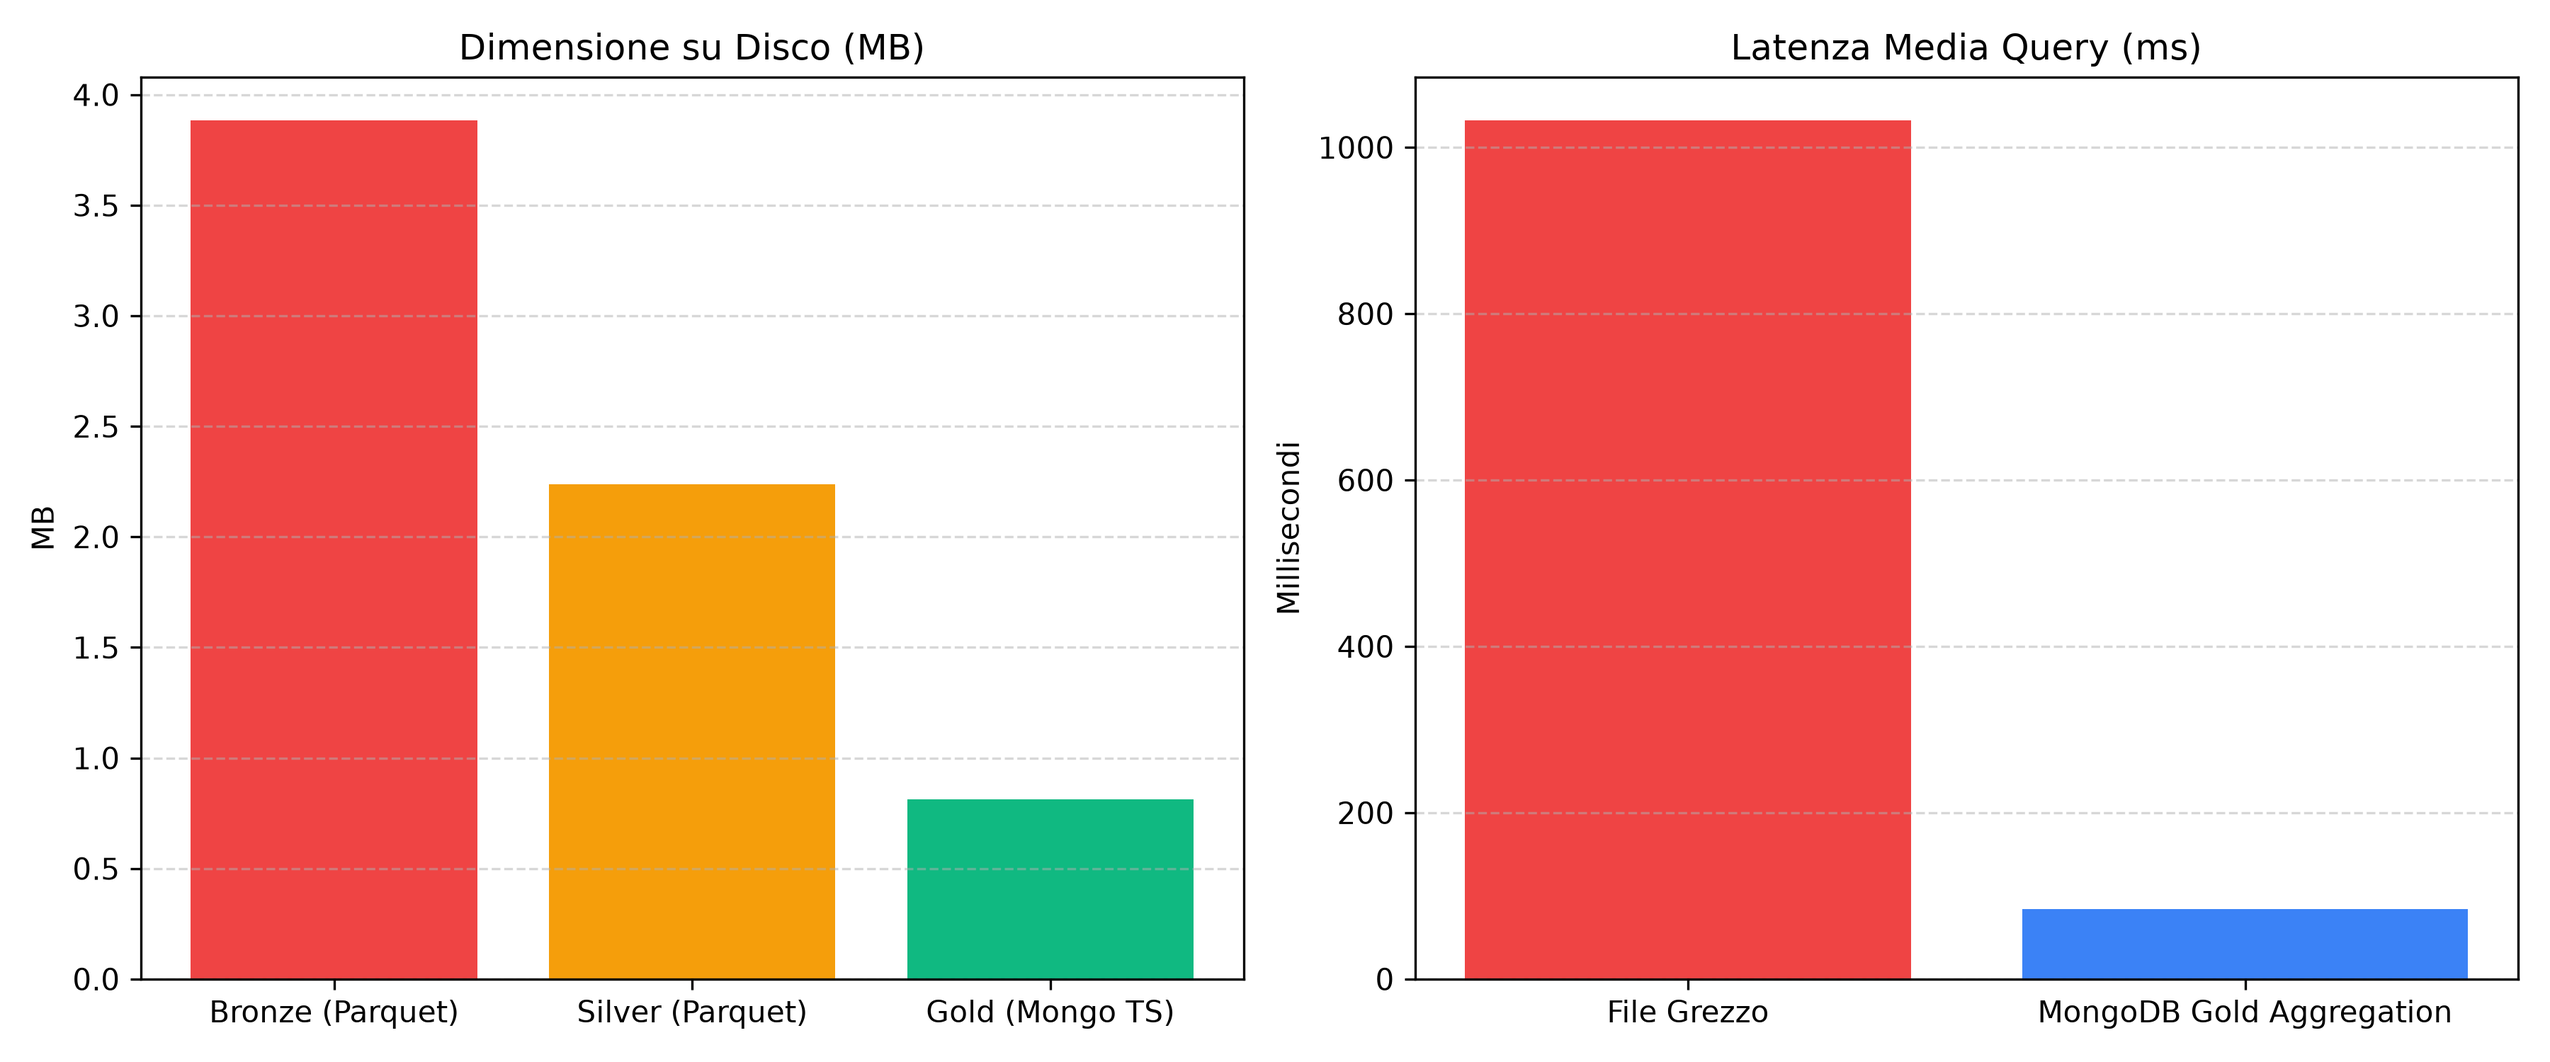
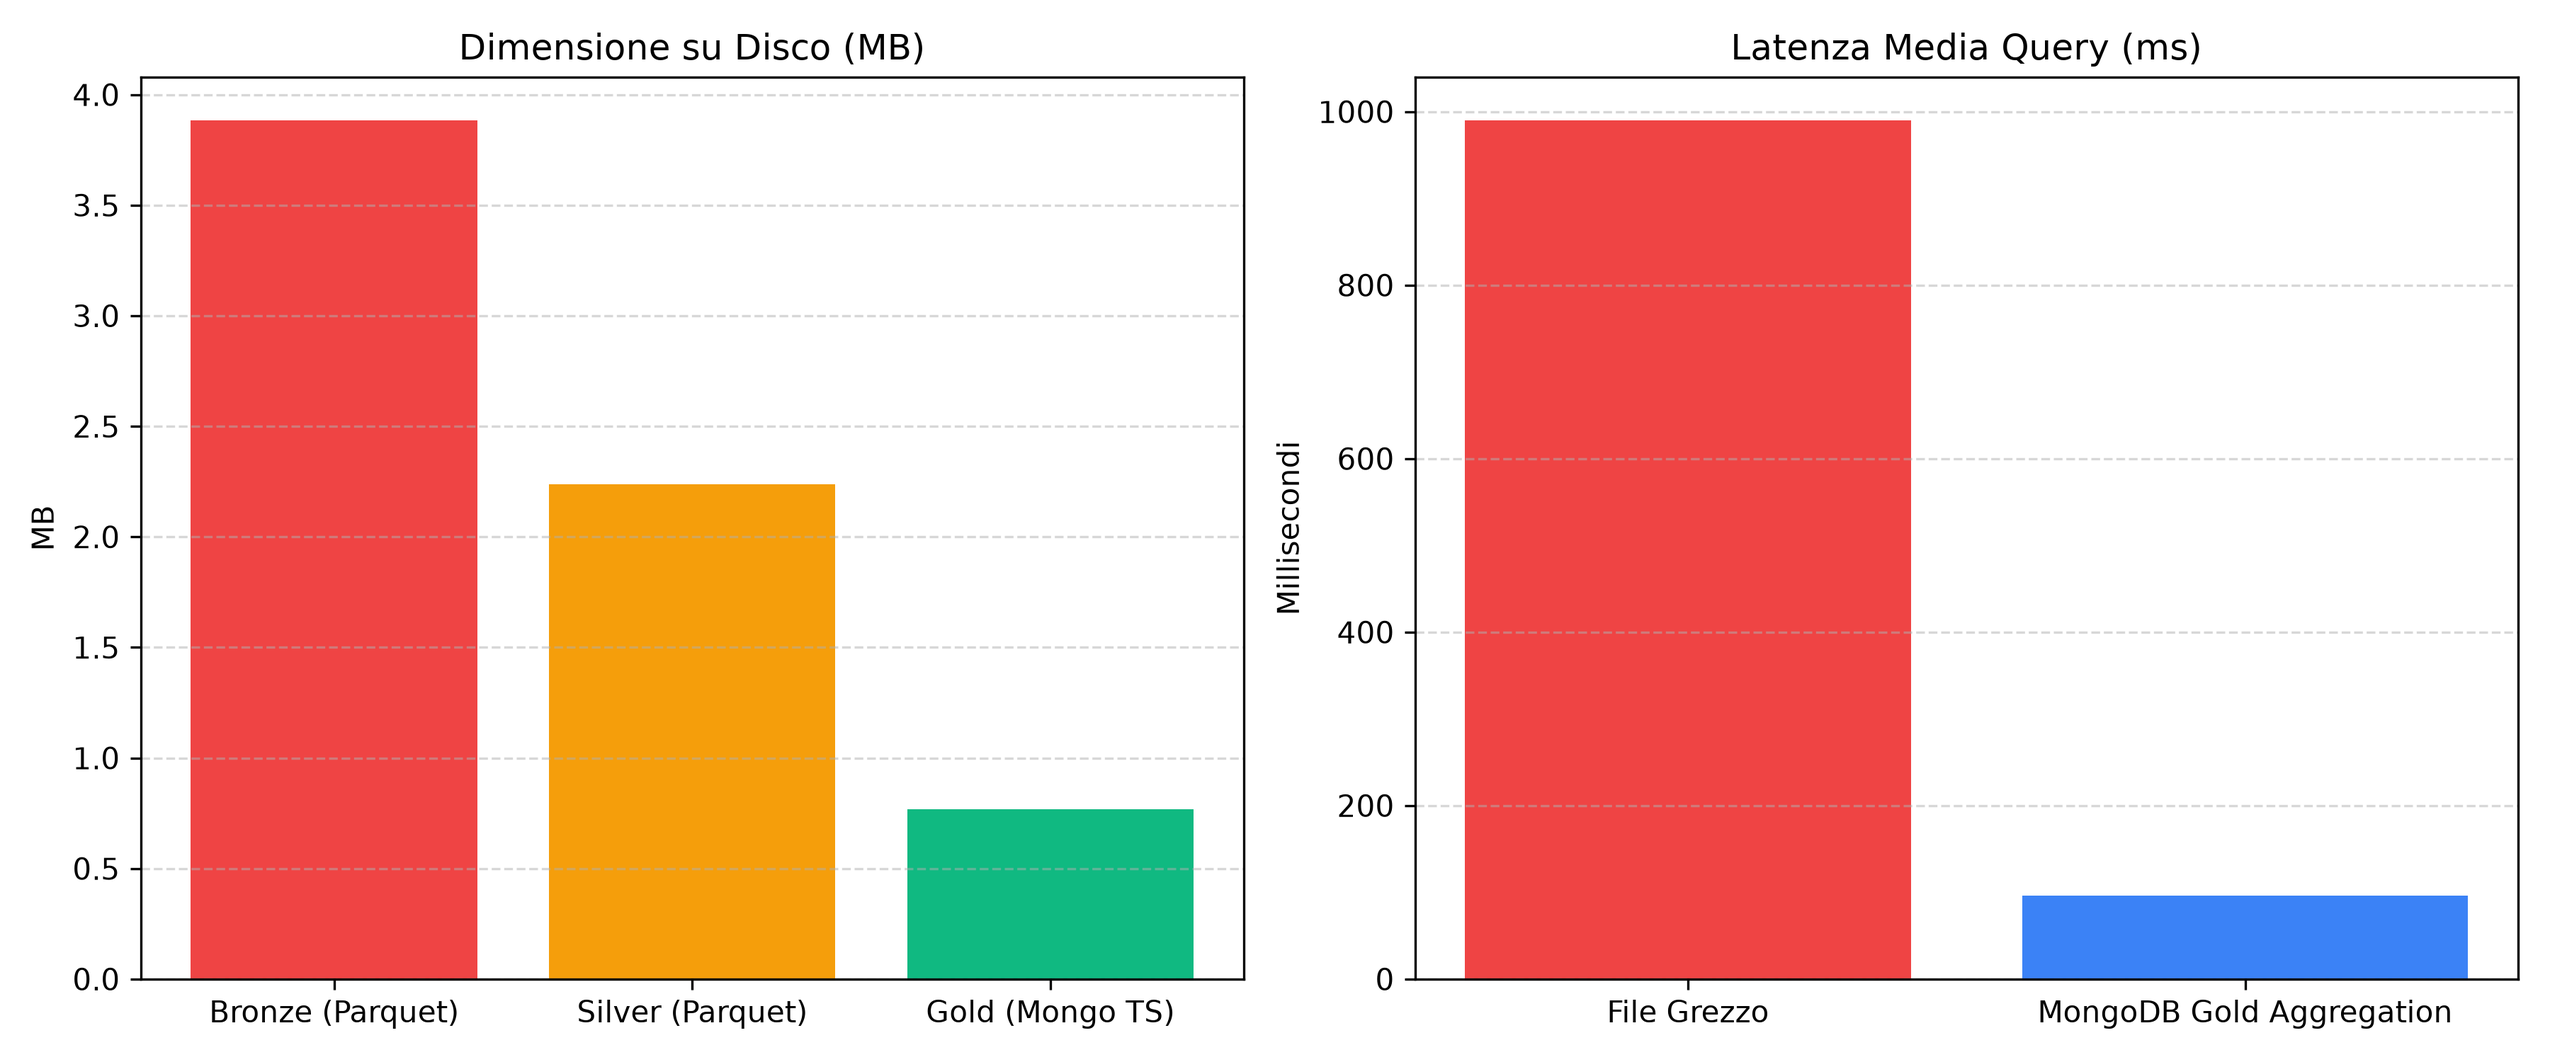
ultime modifiche

diff --git a/dashboard/js/app.js b/dashboard/js/app.js
@@ -71,6 +71,7 @@ async function loadCases() {
     if (!res.ok) throw new Error('Errore risposta HTTP');
     casesCache = await res.json();
     
+    populateDeptMenu(casesCache);
     renderCaseMenu(casesCache);
     renderCases(casesCache, currentCaseId);
   } catch (err) {
@@ -78,6 +79,21 @@ async function loadCases() {
       <div style="color: var(--danger); text-align: center; padding: 1.5rem; font-size: 0.85rem;">
         ❌ Impossibile caricare i casi dal registro MongoDB.
       </div>`;
+  }
+}
+
+/**
+ * Popola il menù a tendina di filtro per reparto chirurgico (Data Governance Metadata)
+ */
+function populateDeptMenu(cases) {
+  const menu = document.getElementById('deptFilterMenu');
+  if (!menu) return;
+  const depts = Array.from(new Set(cases.map(c => c.department).filter(Boolean))).sort();
+  const currentVal = menu.value;
+  menu.innerHTML = '<option value="">Tutti i Reparti</option>' +
+    depts.map(d => `<option value="${d}">${d}</option>`).join('');
+  if (depts.includes(currentVal)) {
+    menu.value = currentVal;
   }
 }
 
@@ -92,12 +108,20 @@ function onCaseMenuSelect(val) {
 }
 
 /**
- * Filtra la lista dei casi
+ * Filtra la lista dei casi sia per ID sia per Reparto Chirurgico
  */
 function filterCases() {
   const query = document.getElementById('caseSearch').value.trim().toLowerCase();
-  const filtered = casesCache.filter(c => c.case_id.toString().includes(query));
+  const deptFilter = document.getElementById('deptFilterMenu') ? document.getElementById('deptFilterMenu').value : '';
+
+  const filtered = casesCache.filter(c => {
+    const matchesQuery = query === '' || c.case_id.toString().includes(query);
+    const matchesDept = deptFilter === '' || (c.department && c.department === deptFilter);
+    return matchesQuery && matchesDept;
+  });
+
   renderCases(filtered, currentCaseId);
+  renderCaseMenu(filtered);
 }
 
 /**
@@ -270,6 +294,56 @@ function switchTab(tabName) {
     document.getElementById('viewSeries').classList.add('hidden');
     document.getElementById('viewBenchmark').classList.remove('hidden');
     loadQualityReport();
+    loadBenchmarkReport();
+  }
+}
+
+/**
+ * Carica dinamicamente il Benchmark prestazionale e di storage dall'endpoint /benchmark.
+ */
+async function loadBenchmarkReport() {
+  const tbody = document.getElementById('benchmarkTableBody');
+  const subtitle = document.getElementById('benchmarkSubtitle');
+  if (!tbody) return;
+
+  try {
+    const res = await fetch(`${API_BASE}/benchmark`);
+    if (!res.ok) return;
+    const data = await res.json();
+
+    if (subtitle && data.generated_at) {
+      const dateStr = new Date(data.generated_at).toLocaleString();
+      subtitle.innerHTML = `
+        Benchmark calcolato il <strong>${dateStr}</strong> su <strong>${data.cases_count} casi</strong> (Layer Bronze → Silver → Gold).
+      `;
+    }
+
+    if (data.storage && data.query_latency) {
+      const s = data.storage;
+      const q = data.query_latency;
+      tbody.innerHTML = `
+        <tr>
+          <td><strong>Layer BRONZE (Grezzo Parquet)</strong></td>
+          <td>${s.bronze_mb} MB</td>
+          <td>0 % (Riferimento)</td>
+          <td>${q.parquet_scan_ms} ms (Scansione File)</td>
+        </tr>
+        <tr>
+          <td><strong>Layer SILVER (Bonificato Parquet)</strong></td>
+          <td>${s.silver_mb} MB</td>
+          <td><strong style="color:var(--warning);">${s.reduction_silver_pct > 0 ? '-' : ''}${s.reduction_silver_pct} %</strong></td>
+          <td>~${(q.parquet_scan_ms * 0.6).toFixed(1)} ms</td>
+        </tr>
+        <tr>
+          <td><strong>Layer GOLD (MongoDB Time Series)</strong></td>
+          <td><strong style="color: var(--success);">${s.gold_mb} MB</strong></td>
+          <td><strong style="color: var(--success);">${s.reduction_gold_pct > 0 ? '-' : ''}${s.reduction_gold_pct} %</strong></td>
+          <td><strong style="color: var(--success);">${q.mongo_indexed_ms} ms (${q.speedup_factor}x più veloce)</strong></td>
+        </tr>
+      `;
+    }
+  } catch (err) {
+    // Mantieni valori esistenti
   }
 }
 
@@ -279,4 +353,5 @@ document.addEventListener('DOMContentLoaded', () => {
   checkApiHealth();
   loadCases();
   loadQualityReport();
+  loadBenchmarkReport();
 });

diff --git a/dashboard/index.html b/dashboard/index.html
@@ -56,8 +56,13 @@
         <select class="select-dropdown" id="caseSelectMenu" onchange="onCaseMenuSelect(this.value)">
           <option value="">-- Scegli Caso dal Menù --</option>
         </select>
+
+        <div class="sidebar-label" style="margin-top: 0.4rem;">Filtra per Reparto (Metadata):</div>
+        <select class="select-dropdown" id="deptFilterMenu" onchange="filterCases()">
+          <option value="">Tutti i Reparti</option>
+        </select>
         
-        <div class="sidebar-label" style="margin-top: 0.4rem;">Cerca nella Lista:</div>
+        <div class="sidebar-label" style="margin-top: 0.4rem;">Cerca per ID Caso:</div>
         <input type="text" class="search-input" id="caseSearch" placeholder="Cerca ID Caso..." onkeyup="filterCases()" />
       </div>
       
@@ -267,8 +272,8 @@
         
         <div class="benchmark-card">
           <div class="benchmark-title">Risultati Empirici della Data Pipeline (Bronze → Silver → Gold)</div>
-          <p style="font-size: 0.82rem; color: var(--text-muted);">
-            Valutazione quantitativa condotta su <strong>50 casi chirurgici (311.173 punti temporali)</strong> registrati su MongoDB 8.0.
+          <p style="font-size: 0.82rem; color: var(--text-muted);" id="benchmarkSubtitle">
+            Valutazione quantitativa delle prestazioni e dello storage per la pipeline Medallion caricata da <code>/benchmark</code>.
           </p>
 
           <table class="benchmark-table">
@@ -280,7 +285,7 @@
                 <th>Latenza Media Query Scansione</th>
               </tr>
             </thead>
-            <tbody>
+            <tbody id="benchmarkTableBody">
               <tr>
                 <td><strong>Layer BRONZE (Grezzo)</strong></td>
                 <td>3.88 MB</td>

diff --git a/src/detection/detector.py b/src/detection/detector.py
@@ -177,20 +177,24 @@ LSTMAutoencoder = _make_lstm_autoencoder_class()
 class LSTMAutoencoderDetector:
     """Detector basato su vero LSTM Autoencoder — addestrato su finestre temporali."""
     
-    def __init__(self, window_size=30, hidden_size=32, epochs=20, percentile=95.0):
+    def __init__(self, window_size=30, hidden_size=32, epochs=10, percentile=95.0):
         self.window_size = window_size   # N campioni consecutivi per finestra
         self.hidden_size = hidden_size   # Dimensione bottleneck
         self.epochs = epochs
         self.percentile = percentile
         self.scaler = StandardScaler()
         self.model = None
+
     def _make_windows(self, X_scaled):
         """Divide la serie in finestre scorrevoli di dimensione window_size."""
         T = len(X_scaled)
+        if T <= self.window_size:
+            return np.empty((0, self.window_size, X_scaled.shape[1] if X_scaled.ndim > 1 else 1))
         windows = []
         for i in range(T - self.window_size):
             windows.append(X_scaled[i : i + self.window_size])
         return np.array(windows)  # (N_windows, window_size, n_features)
+
     def fit_predict(self, df, feature_cols):
         if not _TORCH_AVAILABLE or LSTMAutoencoder is None:
             raise ImportError(
@@ -200,17 +204,36 @@ class LSTMAutoencoderDetector:
         X = df[feature_cols].fillna(df[feature_cols].mean()).values
         X_scaled = self.scaler.fit_transform(X)
         windows = self._make_windows(X_scaled)
+        
+        if len(windows) == 0:
+            self.threshold_ = 0.0
+            self.reconstruction_error_ = np.zeros(len(df))
+            return np.zeros(len(df), dtype=bool)
+
         n_features = len(feature_cols)
         self.model = LSTMAutoencoder(n_features=n_features, hidden_size=self.hidden_size)
         optimizer = torch.optim.Adam(self.model.parameters(), lr=1e-3)
         loss_fn = nn.MSELoss()
         X_tensor = torch.tensor(windows, dtype=torch.float32)
-        dataset = torch.utils.data.TensorDataset(X_tensor)
-        dataloader = torch.utils.data.DataLoader(dataset, batch_size=2048, shuffle=True)
 
-        # Training a mini-batch (efficienza RAM e prevenzione OOM)
+        # Seleziona un sottoinsieme rappresentativo uniforme per il training dei pesi (max 15.000 finestre)
+        # per garantire convergenza rapida in ~8-12 secondi senza latenze durante le demo
+        max_train = 15000
+        if len(windows) > max_train:
+            indices = np.linspace(0, len(windows) - 1, max_train, dtype=int)
+            train_tensor = X_tensor[indices]
+            n_epochs = min(self.epochs, 5)
+        else:
+            train_tensor = X_tensor
+            n_epochs = self.epochs
+
+        batch_sz = min(512, max(32, len(train_tensor)))
+        train_dataset = torch.utils.data.TensorDataset(train_tensor)
+        dataloader = torch.utils.data.DataLoader(train_dataset, batch_size=batch_sz, shuffle=True)
+
+        # Training rapido a mini-batch
         self.model.train()
-        for epoch in range(self.epochs):
+        for epoch in range(n_epochs):
             for (batch_x,) in dataloader:
                 optimizer.zero_grad()
                 output = self.model(batch_x)
@@ -218,9 +241,10 @@ class LSTMAutoencoderDetector:
                 loss.backward()
                 optimizer.step()
 
-        # Calcolo errore di ricostruzione per ogni finestra tramite eval_loader
+        # Valutazione errore di ricostruzione su TUTTE le finestre (inferenza vettoriale veloce senza gradiente)
         self.model.eval()
-        eval_loader = torch.utils.data.DataLoader(dataset, batch_size=4096, shuffle=False)
+        eval_dataset = torch.utils.data.TensorDataset(X_tensor)
+        eval_loader = torch.utils.data.DataLoader(eval_dataset, batch_size=4096, shuffle=False)
         mse_list = []
         with torch.no_grad():
             for (batch_x,) in eval_loader:
@@ -229,11 +253,12 @@ class LSTMAutoencoderDetector:
                 mse_list.append(batch_mse.numpy())
         mse_per_window = np.concatenate(mse_list)
 
-        # Mappa l'errore da finestre → punti temporali originali
-        mse_per_point = np.full(len(df), 0.0)
-        for i, err in enumerate(mse_per_window):
-            mse_per_point[i + self.window_size] = max(mse_per_point[i + self.window_size], float(err))
-        threshold = np.percentile(mse_per_window, self.percentile)
+        # Mappatura vettorizzata istantanea finestre -> punti temporali
+        mse_per_point = np.zeros(len(df))
+        end_idx = min(len(df), len(mse_per_window) + self.window_size)
+        mse_per_point[self.window_size:end_idx] = mse_per_window[:end_idx - self.window_size]
+
+        threshold = float(np.percentile(mse_per_window, self.percentile))
         self.threshold_ = threshold
         self.reconstruction_error_ = mse_per_point
         return mse_per_point > threshold
@@ -322,18 +347,23 @@ def run_detection_pipeline(db, case_ids, statistical_z=3.0, if_contamination=0.0
     df['HR_delta']        = df[HR_KEY].diff()
     feature_cols = [c for c in [HR_KEY, SPO2_KEY, SBP_KEY, DBP_KEY, MBP_KEY,'HR_rolling_mean', 'HR_rolling_std', 'HR_delta']
                     if c in df.columns]
+    print(f"=== AVVIO ANOMALY DETECTION SU {len(case_ids)} CASI ({len(df)} RECORD) ===")
     # 1. Regole Cliniche
+    print("  [1/4] Calcolo Regole Cliniche (Shock Index & Ipotensione Severa)...")
     df = apply_clinical_rules(df)
-    
+
     # 2. Metodo Statistico Z-Score
+    print("  [2/4] Calcolo Outlier Statistici (Z-Score)...")
     df['statistical_anomaly'] = AnomalyDetector(method='statistical', z_threshold=statistical_z) \
         .fit_predict(df, feature_cols)
-        
+
     # 3. Isolation Forest ML
+    print("  [3/4] Addestramento ed inferenza Isolation Forest...")
     df['isolation_forest_anomaly'] = AnomalyDetector(method='isolation_forest', contamination=if_contamination) \
         .fit_predict(df, feature_cols)
-        
+
     # 4. LSTM Autoencoder Neurale ML
+    print("  [4/4] Addestramento ed inferenza LSTM Autoencoder PyTorch...")
     df['autoencoder_anomaly'] = AnomalyDetector(method='lstm_autoencoder', percentile=ae_percentile) \
         .fit_predict(df, feature_cols)
 

diff --git a/src/bronze/download.py b/src/bronze/download.py
@@ -69,14 +69,29 @@ def download_all_cases(tracks, interval, output_dir, max_cases=None):
         download_case(case_id, tracks, interval, output_dir)
 
 def download_clinical_data(output_dir):
-    """Scarica i metadati clinici perioperatori (età, sesso, tipo intervento, reparto) e li salva nel Bronze."""
+    """Scarica i metadati clinici perioperatori (età, sesso, tipo intervento, reparto) e li salva nel Bronze.
+
+    Nota di robustezza:
+    L'implementazione di `vitaldb.load_clinical_data()` presenta un bug noto che restituisce 0 righe
+    se invocata senza parametri. Per garantire la persistenza corretta, interroghiamo direttamente l'endpoint
+    REST ufficiale di VitalDB (https://api.vitaldb.net/cases) con fallback su SDK parametrizzato.
+    """
     try:
-        df_clinical = vitaldb.load_clinical_data()
-        output_file = output_dir / "clinical_data.parquet"
-        df_clinical.to_parquet(output_file, index=False)
-        print("✓ Dati clinici e demografici scaricati correttamente.")
-    except Exception as e:
-        print(f"❌ Errore nel download dei dati clinici: {e}")
+        url = "https://api.vitaldb.net/cases"
+        df_clinical = pd.read_csv(url)
+        if df_clinical.empty:
+            raise ValueError("Endpoint REST /cases ha restituito una tabella vuota.")
+    except Exception as e_rest:
+        print(f"⚠ Avviso: Download da {url} non riuscito ({e_rest}), fallback su SDK VitalDB...")
+        try:
+            df_clinical = vitaldb.load_clinical_data(caseids=list(range(1, 6389)))
+        except Exception as e_sdk:
+            print(f"❌ Errore irreversibile nel download dei dati clinici: {e_sdk}")
+            return
+
+    output_file = output_dir / "clinical_data.parquet"
+    df_clinical.to_parquet(output_file, index=False)
+    print(f"✓ Dati clinici e demografici scaricati correttamente ({len(df_clinical)} pazienti censiti).")
 
 if __name__ == '__main__':
     print("=== INIZIO FASE DI INGESTIONE BRONZE ===")

diff --git a/src/analysis/benchmark_etl.py b/src/analysis/benchmark_etl.py
@@ -2,6 +2,8 @@
 
 import sys
 import time
+import json
+import datetime
 from pathlib import Path
 import pandas as pd
 import numpy as np
@@ -103,15 +105,39 @@ def run_etl_benchmark():
     plt.savefig(chart_path, dpi=300)
     plt.close()
     print(f"✓ Grafico salvato in: {chart_path}")
-    
-    return {
-        "bronze_mb": bronze_size_mb,
-        "silver_mb": silver_size_mb,
-        "gold_mb": gold_size_mb,
-        "null_pct_bronze": null_pct_bronze,
-        "latency_file_ms": t_parquet_ms,
-        "latency_mongo_ms": t_mongo_ms
+
+    reduction_silver = ((bronze_size_mb - silver_size_mb) / bronze_size_mb * 100) if bronze_size_mb > 0 else 0.0
+    reduction_gold = ((bronze_size_mb - gold_size_mb) / bronze_size_mb * 100) if bronze_size_mb > 0 else 0.0
+    speedup = (t_parquet_ms / t_mongo_ms) if t_mongo_ms > 0 else 1.0
+
+    report_data = {
+        "generated_at": datetime.datetime.now(datetime.timezone.utc).isoformat(),
+        "cases_count": len(bronze_files),
+        "storage": {
+            "bronze_mb": round(bronze_size_mb, 2),
+            "silver_mb": round(silver_size_mb, 2),
+            "gold_mb": round(gold_size_mb, 2),
+            "reduction_silver_pct": round(reduction_silver, 1),
+            "reduction_gold_pct": round(reduction_gold, 1)
+        },
+        "query_latency": {
+            "parquet_scan_ms": round(t_parquet_ms, 1),
+            "mongo_indexed_ms": round(t_mongo_ms, 1),
+            "speedup_factor": round(speedup, 1)
+        },
+        "quality": {
+            "null_pct_bronze": round(null_pct_bronze, 1),
+            "null_pct_silver": 0.0,
+            "null_pct_gold": 0.0
+        }
     }
+
+    report_path = config.DATA_DIR / "benchmark_report.json"
+    with open(report_path, "w", encoding="utf-8") as f:
+        json.dump(report_data, f, indent=2)
+    print(f"✓ Benchmark Report salvato in: {report_path}")
+
+    return report_data
 
 if __name__ == '__main__':
     run_etl_benchmark()

diff --git a/api/main.py b/api/main.py
@@ -102,6 +102,20 @@ async def get_quality():
         raise HTTPException(status_code=500, detail=f"Errore lettura quality report: {e}")
 
 
+@app.get("/benchmark")
+async def get_benchmark():
+    """Restituisce il Benchmark prestazionale e di compressione generato da src/analysis/benchmark_etl.py."""
+    benchmark_file = config.DATA_DIR / "benchmark_report.json"
+    if not benchmark_file.exists():
+        raise HTTPException(status_code=404, detail="Benchmark non ancora calcolato. Eseguire src/analysis/benchmark_etl.py.")
+    try:
+        with open(benchmark_file, "r", encoding="utf-8") as f:
+            data = json.load(f)
+        return data
+    except Exception as e:
+        raise HTTPException(status_code=500, detail=f"Errore lettura benchmark report: {e}")
+
+
 @app.get("/cases")
 async def get_cases():
     """Restituisce l'elenco di tutti i casi clinici caricati nel layer Gold, arricchiti con i metadati di paziente."""

diff --git a/src/analysis/evaluate_models.py b/src/analysis/evaluate_models.py
@@ -53,7 +53,7 @@ def evaluate_anomaly_models():
     y_if = if_detector.fit_predict(df, feature_cols)
     
     # LSTM Autoencoder
-    ae = LSTMAutoencoderDetector(percentile=95.0, epochs=15)
+    ae = LSTMAutoencoderDetector(percentile=95.0, epochs=10)
     y_ae = ae.fit_predict(df, feature_cols)
     
     # Metriche di performance rispetto a Ground Truth Clinico
